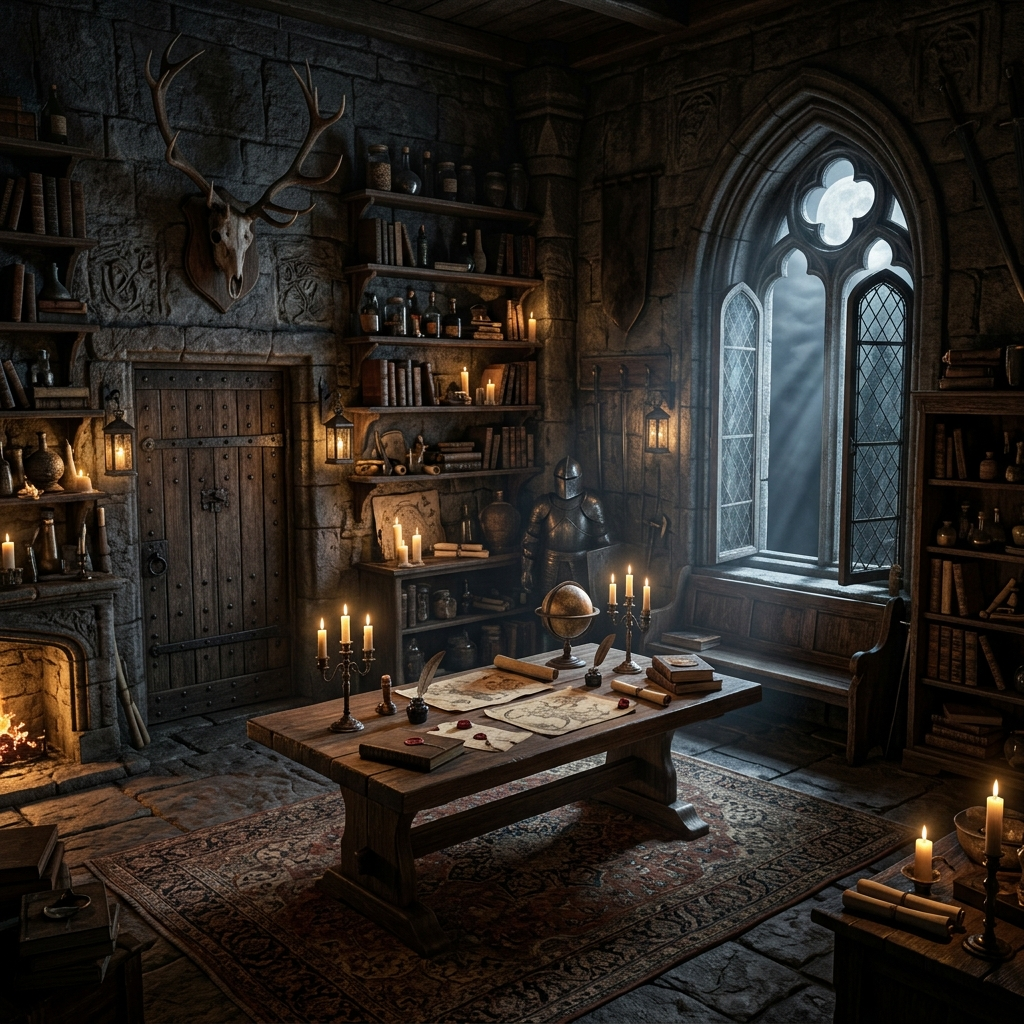
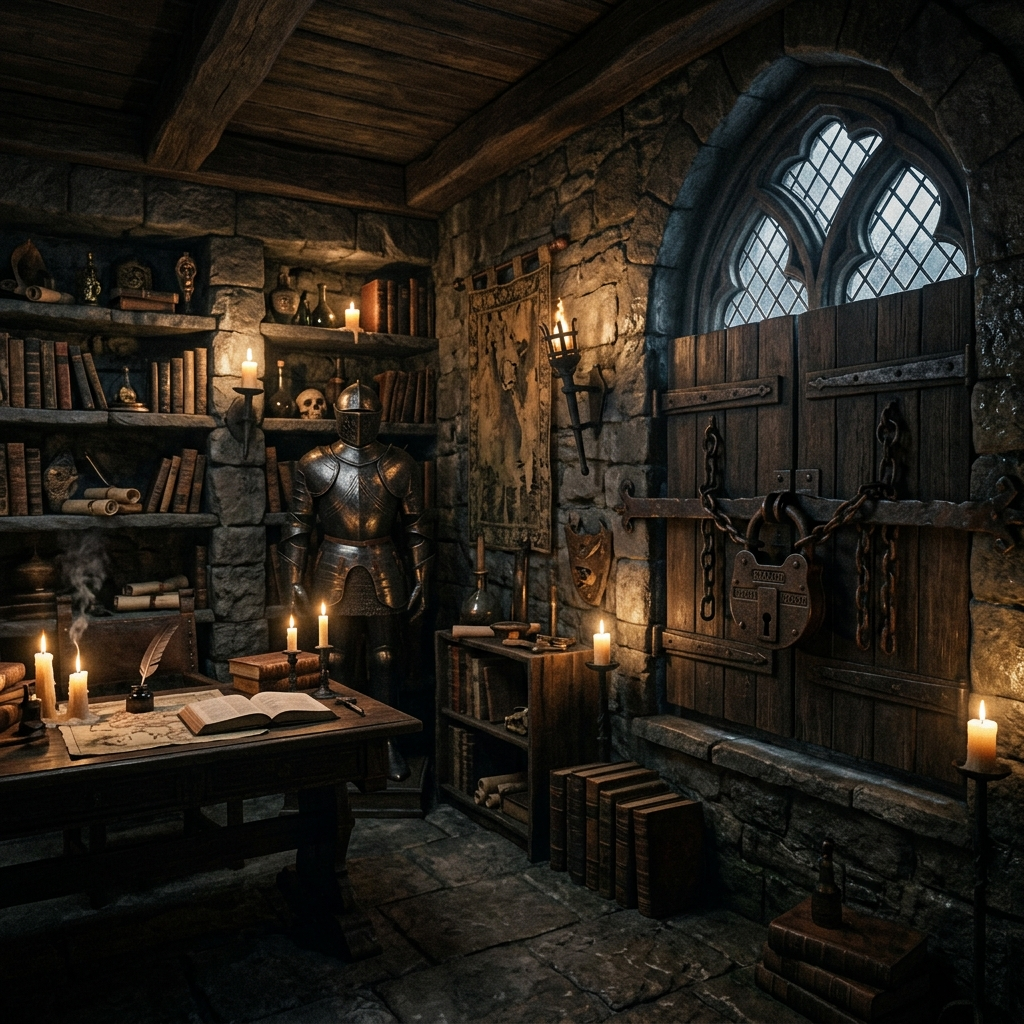
Rounnd 1 done

diff --git a/competition-ui/src/pages/Round1Page.jsx b/competition-ui/src/pages/Round1Page.jsx
@@ -7,8 +7,6 @@ export default function Round1Page({ gameState, onComplete }) {
   // Phase: 'explore' → 'lock' → 'submit' → 'result'
   const [phase, setPhase] = useState('explore')
   const [windowFound, setWindowFound] = useState(false)
-  const [showHint, setShowHint] = useState(false)
-  const [showClue, setShowClue] = useState(false)
   const [imageFile, setImageFile] = useState(null)
   const [imagePreview, setImagePreview] = useState(null)
   const [dragOver, setDragOver] = useState(false)
@@ -75,42 +73,6 @@ export default function Round1Page({ gameState, onComplete }) {
         {/* ── Darkness overlay ── */}
         <div className="r1-room-overlay" />
 
-        {/* ── Instruction card (top-left) — hidden by default, opened manually ── */}
-        <AnimatePresence>
-          {phase === 'explore' && !showClue && (
-            <motion.button
-              className="r1-clue-toggle"
-              initial={{ opacity: 0, x: -16 }}
-              animate={{ opacity: 1, x: 0 }}
-              exit={{ opacity: 0, x: -16 }}
-              transition={{ duration: 0.35 }}
-              onClick={() => setShowClue(true)}
-            >
-              <span className="r1-clue-toggle-icon">📖</span>
-              <span className="r1-clue-toggle-label">Instructions</span>
-            </motion.button>
-          )}
-        </AnimatePresence>
-
-        <AnimatePresence>
-          {phase === 'explore' && showClue && (
-            <motion.div
-              className="r1-clue-card"
-              initial={{ opacity: 0, x: -16 }}
-              animate={{ opacity: 1, x: 0 }}
-              exit={{ opacity: 0, x: -16 }}
-              transition={{ duration: 0.35 }}
-            >
-              <button className="r1-clue-close" onClick={() => setShowClue(false)} aria-label="Close instructions">✕</button>
-              <p className="r1-clue-text">
-                Find the window that can be opened.
-              </p>
-              <p className="r1-clue-sub">
-                Look carefully. The key is hidden.
-              </p>
-            </motion.div>
-          )}
-        </AnimatePresence>
 
         {/* ── Clickable Window hotspot ── */}
         {phase === 'explore' && (
@@ -119,25 +81,7 @@ export default function Round1Page({ gameState, onComplete }) {
             onClick={handleWindowClick}
             title="Examine the window"
             animate={pulseWindow ? {} : {}}
-          >
-            {/* Dashed pulsing ring */}
-            <motion.div
-              className="r1-window-ring"
-              animate={{
-                scale: [1, 1.12, 1],
-                opacity: [0.7, 1, 0.7],
-              }}
-              transition={{ duration: 1.8, repeat: Infinity, ease: 'easeInOut' }}
-            />
-            {/* Magnifier icon */}
-            <motion.div
-              className="r1-magnifier"
-              animate={{ scale: [1, 1.1, 1] }}
-              transition={{ duration: 2, repeat: Infinity, ease: 'easeInOut', delay: 0.3 }}
-            >
-              🔍
-            </motion.div>
-          </motion.div>
+          />
         )}
 
         {/* ── Window-found flash ── */}
@@ -174,14 +118,15 @@ export default function Round1Page({ gameState, onComplete }) {
                 {phase === 'lock' && (
                   <div className="r1-lock-view">
                     <div className="r1-modal-header">
-                      <span className="font-heading r1-modal-title">🔒 Something catches your eye…</span>
-                      <p className="r1-modal-hint">Could this open the window?</p>
+                      <span className="font-heading r1-modal-title">⚙️ Something catches your eye…</span>
+                      <p className="r1-modal-hint">A complex mechanical lock seals the window.</p>
                     </div>
 
                     <motion.div
                       className="r1-lock-img-wrap"
-                      animate={{ y: [0, -6, 0] }}
-                      transition={{ duration: 3, repeat: Infinity, ease: 'easeInOut' }}
+                      initial={{ opacity: 0, scale: 0.9 }}
+                      animate={{ opacity: 1, scale: 1 }}
+                      transition={{ duration: 0.6, ease: 'easeOut' }}
                     >
                       <img
                         src="/images/lock.png"
@@ -206,14 +151,9 @@ export default function Round1Page({ gameState, onComplete }) {
 
                     <div className="r1-modal-body">
                       <p className="r1-modal-desc">
-                        An ancient padlock seals the window. To open it, you must generate
-                        the <strong style={{ color: 'var(--color-gold)' }}>exact key</strong> that fits this lock.
+                        A mechanical lock seals the window. Study its gem-stone slots and pin tumblers, then generate the
+                        <strong style={{ color: 'var(--color-gold)' }}> exact key</strong> that fits this lock.
                       </p>
-                      <div className="r1-clue-chips">
-                        {['🗝️ Skeleton key', '🟡 Golden color', '⚙️ 3 teeth', '✨ Sharp edges'].map(c => (
-                          <span key={c} className="r1-chip">{c}</span>
-                        ))}
-                      </div>
                     </div>
 
                     <motion.button
@@ -235,27 +175,7 @@ export default function Round1Page({ gameState, onComplete }) {
                       <p className="r1-modal-hint">Generate a key image using an AI tool and upload it below</p>
                     </div>
 
-                    <div className="r1-submit-body">
-                      {/* Left — lock reminder */}
-                      <div className="r1-lock-thumb-wrap">
-                        <img src="/images/lock.png" alt="Lock" className="r1-lock-thumb"
-                          onError={e => { e.target.style.display='none'; e.target.nextSibling.style.display='block' }} />
-                        <div style={{ display: 'none', fontSize: '3rem', textAlign: 'center' }}>🔒</div>
-                        <p className="r1-lock-label">Target Lock</p>
-                        <div className="r1-key-hints">
-                          {[
-                            ['Shape', 'Skeleton / Antique'],
-                            ['Color', 'Golden / Brass'],
-                            ['Teeth', '3 rectangular cuts'],
-                            ['Bg', 'Dark / High contrast'],
-                          ].map(([k, v]) => (
-                            <div key={k} className="r1-key-hint-row">
-                              <span className="r1-key-hint-label">{k}</span>
-                              <span className="r1-key-hint-val">{v}</span>
-                            </div>
-                          ))}
-                        </div>
-                      </div>
+                    <div className="r1-submit-body r1-submit-body--single">
 
                       {/* Right — upload */}
                       <div className="r1-upload-area">
@@ -412,36 +332,6 @@ export default function Round1Page({ gameState, onComplete }) {
 
       </div>{/* end scene-wrap */}
 
-      {/* ══════════════ BOTTOM BAR ══════════════ */}
-      <div className="r1-bottombar">
-        <button className="r1-bar-btn" onClick={() => setShowHint(h => !h)}>
-          <span className="r1-bar-icon">💡</span>
-          <span className="r1-bar-label">HINT</span>
-        </button>
-        <button className="r1-bar-btn">
-          <span className="r1-bar-icon">🎒</span>
-          <span className="r1-bar-label">INVENTORY</span>
-        </button>
-        <button className="r1-bar-btn">
-          <span className="r1-bar-icon">📝</span>
-          <span className="r1-bar-label">NOTES</span>
-        </button>
-      </div>
-
-      {/* Hint tooltip */}
-      <AnimatePresence>
-        {showHint && (
-          <motion.div
-            className="r1-hint-toast"
-            initial={{ opacity: 0, y: 20 }}
-            animate={{ opacity: 1, y: 0 }}
-            exit={{ opacity: 0, y: 20 }}
-          >
-            💡 Look for the glowing circle on the right side of the room — that's your window!
-            <button onClick={() => setShowHint(false)} className="r1-hint-close">✕</button>
-          </motion.div>
-        )}
-      </AnimatePresence>
 
     </div>
   )

diff --git a/competition-ui/src/pages/Round1Page.css b/competition-ui/src/pages/Round1Page.css
@@ -76,7 +76,7 @@
 .r1-room-bg {
   position: absolute;
   inset: 0;
-  background-image: url('/dungeon_room.png');
+  background-image: url('/images/round1.png');
   background-size: cover;
   background-position: center center;
   background-repeat: no-repeat;
@@ -175,15 +175,12 @@
 /* ── Window hotspot ── */
 .r1-window-hotspot {
   position: absolute;
-  /* Positioned at the window area — right side of the room ~68% from left, ~20% from top */
-  right: 14%;
-  top: 18%;
-  width: clamp(80px, 10vw, 130px);
-  height: clamp(80px, 10vw, 130px);
+  /* Placed over the tall window on the right side of the room */
+  left: 66%;
+  top: 5%;
+  width: 8%;
+  height: 40%;
   cursor: pointer;
-  display: flex;
-  align-items: center;
-  justify-content: center;
   z-index: 15;
 }
 
@@ -238,15 +235,18 @@
   padding: 22px 28px;
   max-width: 760px;
   width: 100%;
-  max-height: 88vh;
+  max-height: 90vh;
   overflow-y: auto;
-  scrollbar-width: none;
+  scrollbar-width: thin;
+  scrollbar-color: rgba(212,160,23,0.5) transparent;
   box-shadow:
     0 0 60px rgba(0,0,0,0.85),
     0 0 40px rgba(180, 130, 30, 0.1);
   position: relative;
 }
-.r1-lock-modal::-webkit-scrollbar { display: none; }
+.r1-lock-modal::-webkit-scrollbar { width: 8px; }
+.r1-lock-modal::-webkit-scrollbar-track { background: transparent; }
+.r1-lock-modal::-webkit-scrollbar-thumb { background: rgba(212,160,23,0.5); border-radius: 4px; }
 
 .r1-lock-modal::before {
   content: '';
@@ -296,10 +296,12 @@
 }
 
 .r1-lock-img {
-  width: clamp(160px, 25vw, 260px);
-  height: clamp(160px, 25vw, 260px);
+  width: 100%;
+  max-width: 650px;
+  height: auto;
+  max-height: 55vh;
   object-fit: contain;
-  filter: drop-shadow(0 0 20px rgba(180, 130, 30, 0.4));
+  filter: drop-shadow(0 0 30px rgba(180, 130, 30, 0.5));
 }
 
 .r1-lock-placeholder {
@@ -369,6 +371,13 @@
   grid-template-columns: 1fr 1.6fr;
   gap: 20px;
   align-items: start;
+}
+
+/* Single-column variant (no hints panel) */
+.r1-submit-body--single {
+  display: flex;
+  flex-direction: column;
+  gap: 16px;
 }
 
 @media (max-width: 640px) {
@@ -578,80 +587,3 @@
   font-weight: 900;
 }
 
-/* ══════════════ BOTTOM BAR ══════════════ */
-.r1-bottombar {
-  flex-shrink: 0;
-  display: flex;
-  align-items: center;
-  justify-content: center;
-  gap: 0;
-  background: linear-gradient(0deg, rgba(8,6,3,0.96), rgba(4,3,2,0.92));
-  border-top: 1px solid rgba(80, 55, 20, 0.45);
-  position: relative;
-  z-index: 20;
-}
-
-.r1-bottombar::before {
-  content: '';
-  position: absolute;
-  left: 0; right: 0; top: -1px;
-  height: 1px;
-  background: linear-gradient(90deg, transparent, rgba(212,160,23,0.45), transparent);
-  pointer-events: none;
-}
-
-.r1-bar-btn {
-  flex: 1;
-  max-width: 200px;
-  display: flex;
-  flex-direction: column;
-  align-items: center;
-  gap: 3px;
-  padding: 10px 16px;
-  background: none;
-  border: none;
-  border-right: 1px solid rgba(80, 55, 20, 0.3);
-  cursor: pointer;
-  transition: background 0.2s;
-}
-
-.r1-bar-btn:last-child { border-right: none; }
-.r1-bar-btn:hover { background: rgba(212,160,23,0.05); }
-
-.r1-bar-icon  { font-size: 1.1rem; }
-.r1-bar-label {
-  font-family: var(--font-heading);
-  font-size: 0.55rem;
-  letter-spacing: 0.2em;
-  color: var(--color-text-muted);
-  text-transform: uppercase;
-}
-
-/* ── Hint toast ── */
-.r1-hint-toast {
-  position: absolute;
-  bottom: 60px;
-  left: 50%;
-  transform: translateX(-50%);
-  background: rgba(10, 7, 4, 0.95);
-  border: 1px solid rgba(212, 160, 23, 0.35);
-  border-radius: 6px;
-  padding: 12px 16px;
-  font-size: 0.78rem;
-  color: var(--color-text-dim);
-  display: flex;
-  align-items: center;
-  gap: 12px;
-  white-space: nowrap;
-  z-index: 25;
-  box-shadow: 0 4px 20px rgba(0,0,0,0.5);
-}
-
-.r1-hint-close {
-  background: none;
-  border: none;
-  color: var(--color-text-muted);
-  cursor: pointer;
-  font-size: 0.75rem;
-  flex-shrink: 0;
-}